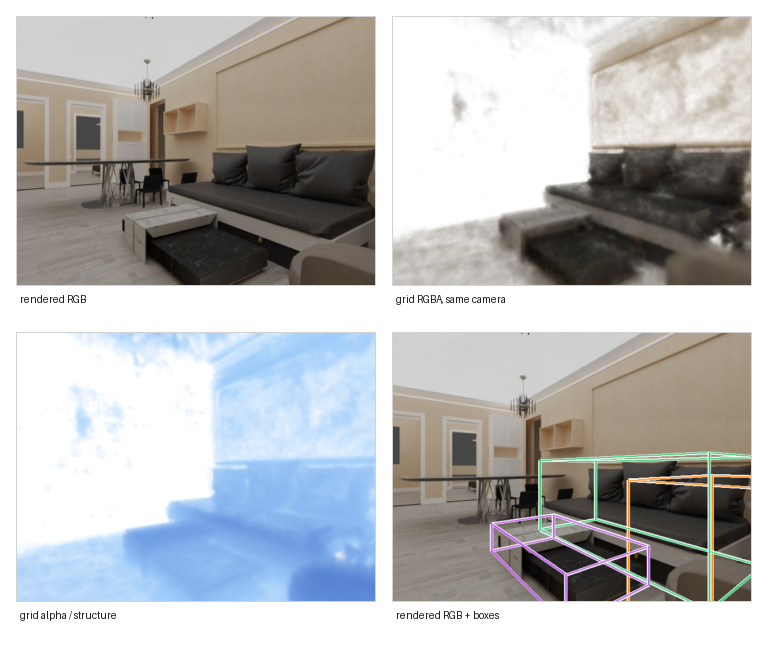
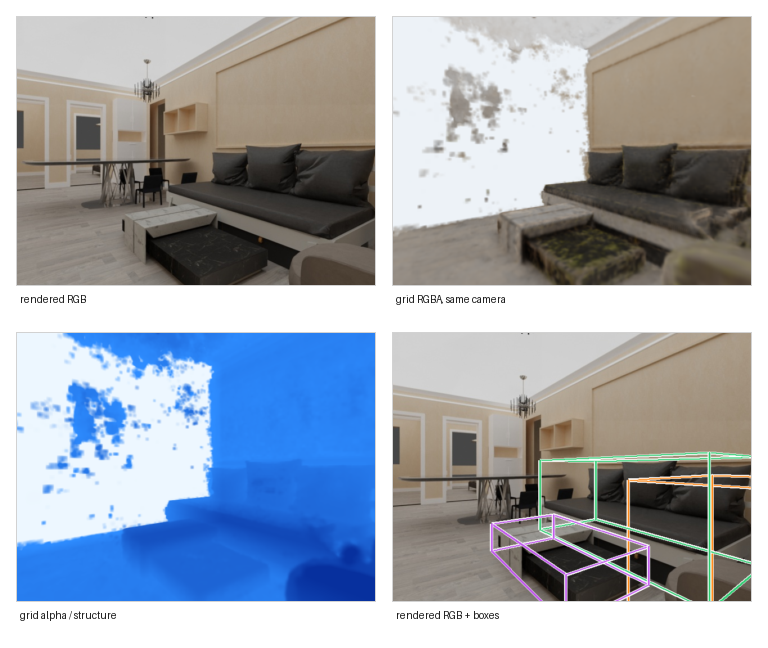
Refine Fig1 camera-aligned volume assets

diff --git a/figures_src/render_camera_aligned_grid_views.py b/figures_src/render_camera_aligned_grid_views.py
@@ -73,7 +73,9 @@ def world_to_grid(world_points: torch.Tensor, meta: dict[str, np.ndarray | float
     bbox_max = torch.as_tensor(meta["bbox_max"], dtype=world_points.dtype, device=world_points.device)
     scale = torch.as_tensor(float(meta["scale"]), dtype=world_points.dtype, device=world_points.device)
     offset = torch.as_tensor(meta["offset"], dtype=world_points.dtype, device=world_points.device)
-    # world = ([pos_x, pos_y, pos_z] - [offset_y, offset_z, offset_x]) / scale
+    # Inverse of the point-position part of proposals2ngp.py's non-mitsuba
+    # path. The y/z sign flip there applies to orientation columns, not to
+    # the translation column used for point locations.
     off = torch.stack([offset[1], offset[2], offset[0]])
     pos = world_points * scale + off
     diag = bbox_max - bbox_min
@@ -162,7 +164,14 @@ def render_camera_aligned(
         opacity = weights.sum(dim=1).clamp(0.0, 1.0)
         color = (weights[..., None] * sampled[..., :3].clamp(0.0, 1.0)).sum(dim=1)
         depth = (weights * ts_base[None, :]).sum(dim=1) / opacity.clamp_min(1e-6)
-        rgb = color + (1.0 - opacity[:, None])
+        surface_rgb = color / opacity[:, None].clamp_min(1e-4)
+        # Figure-facing grid view: the extracted radiance-density grid is much
+        # sparser than the original NGP render. Compositing directly over white
+        # makes far/low-density structure disappear, so use an opacity matte
+        # over a very light cool background while preserving sampled RGB.
+        matte = (opacity * 1.75).clamp(0.0, 1.0).pow(0.55)
+        bg = torch.tensor([0.93, 0.95, 0.97], dtype=torch.float32)
+        rgb = surface_rgb.clamp(0.0, 1.0) * matte[:, None] + bg[None, :] * (1.0 - matte[:, None])
         rgb_out[y0:y1] = rgb.reshape(y1 - y0, width, 3)
         opacity_out[y0:y1] = opacity.reshape(y1 - y0, width)
         depth_out[y0:y1] = depth.reshape(y1 - y0, width)
@@ -175,14 +184,20 @@ def save_rgb(path: Path, arr: np.ndarray) -> None:
 
 
 def save_alpha(path: Path, opacity: np.ndarray, depth: np.ndarray) -> None:
-    # Figure-friendly blue structure view with depth shading. Near opaque
-    # surfaces become saturated blue; farther surfaces fade to pale blue.
-    alpha_strength = 0.92 * (np.clip(opacity, 0.0, 1.0) ** 0.58)
+    # Figure-friendly blue structure view with depth shading. Keep far surfaces
+    # blue instead of fading them to white; otherwise the room depth disappears
+    # in the camera-aligned view.
+    alpha_strength = np.clip(1.65 * (np.clip(opacity, 0.0, 1.0) ** 0.46), 0.0, 1.0)
     depth = np.clip(depth, 0.0, 1.0)
-    near = np.array([0.04, 0.22, 0.68], dtype=np.float32)
-    far = np.array([0.62, 0.82, 1.00], dtype=np.float32)
+    valid = opacity > 0.015
+    if np.any(valid):
+        lo, hi = np.percentile(depth[valid], [2, 98])
+        depth = np.clip((depth - lo) / max(hi - lo, 1e-6), 0.0, 1.0)
+    near = np.array([0.03, 0.19, 0.62], dtype=np.float32)
+    far = np.array([0.18, 0.55, 1.00], dtype=np.float32)
     structure_color = near[None, None, :] * (1.0 - depth[..., None]) + far[None, None, :] * depth[..., None]
-    img = (1.0 - alpha_strength[..., None]) + alpha_strength[..., None] * structure_color
+    bg = np.array([0.93, 0.97, 1.00], dtype=np.float32)
+    img = bg[None, None, :] * (1.0 - alpha_strength[..., None]) + alpha_strength[..., None] * structure_color
     save_rgb(path, img)
 
 
@@ -208,6 +223,60 @@ def make_quad(render_rgb_path: Path, grid_rgba_path: Path, alpha_path: Path, bbo
     sheet.save(out_path)
 
 
+def save_crop_set(
+    render_rgb_path: Path,
+    grid_rgba_path: Path,
+    alpha_path: Path,
+    bbox_path: Path,
+    scene: str,
+    frame: str,
+    crop: tuple[int, int, int, int],
+    out: Path,
+) -> None:
+    """Save a paper-facing crop that keeps the render/grid panels aligned."""
+    source_paths = {
+        "render_rgb": render_rgb_path,
+        "grid_rgba": grid_rgba_path,
+        "grid_alpha": alpha_path,
+        "bbox": bbox_path,
+    }
+    cropped = {}
+    for key, path in source_paths.items():
+        crop_path = out / f"fig1_{scene}_{frame}_{key}_crop_sofa_wall.png"
+        Image.open(path).convert("RGB").crop(crop).save(crop_path)
+        cropped[key] = crop_path
+
+    thumb_w, thumb_h = 260, 320
+    margin, label_h = 16, 30
+    labels = [
+        ("render_rgb", "rendered RGB crop"),
+        ("grid_rgba", "grid RGBA crop"),
+        ("grid_alpha", "grid alpha / structure crop"),
+        ("bbox", "rendered RGB + boxes crop"),
+    ]
+    sheet = Image.new("RGB", (thumb_w * 2 + margin * 3, (thumb_h + label_h) * 2 + margin * 3), "white")
+    draw = ImageDraw.Draw(sheet)
+    for i, (key, label) in enumerate(labels):
+        img = Image.open(cropped[key]).convert("RGB")
+        img = ImageOps.contain(img, (thumb_w, thumb_h), Image.BILINEAR)
+        row, col = divmod(i, 2)
+        x = margin + col * (thumb_w + margin)
+        y = margin + row * (thumb_h + label_h + margin)
+        bg = Image.new("RGB", (thumb_w, thumb_h), (248, 248, 248))
+        bg.paste(img, ((thumb_w - img.width) // 2, (thumb_h - img.height) // 2))
+        sheet.paste(bg, (x, y))
+        draw.rectangle([x, y, x + thumb_w - 1, y + thumb_h - 1], outline=(210, 210, 210), width=1)
+        draw.text((x + 4, y + thumb_h + 7), label, fill=(25, 25, 25))
+    sheet.save(out / f"fig1_{scene}_{frame}_render_rgb_grid_rgba_alpha_bbox_quad_crop_sofa_wall.png")
+
+
+def parse_crop(raw: str) -> tuple[int, int, int, int]:
+    vals = [int(v.strip()) for v in raw.split(",")]
+    if len(vals) != 4:
+        raise ValueError("--crop must be formatted as left,top,right,bottom")
+    return vals[0], vals[1], vals[2], vals[3]
+
+
 def main() -> None:
     parser = argparse.ArgumentParser()
     parser.add_argument("--scene", default="3dfront_0131_00")
@@ -224,6 +293,11 @@ def main() -> None:
     parser.add_argument("--tile-rows", type=int, default=24)
     parser.add_argument("--opacity-scale", type=float, default=0.45)
     parser.add_argument("--alpha-threshold", type=float, default=0.015)
+    parser.add_argument(
+        "--crop",
+        default="370,25,640,385",
+        help="Aligned crop for paper-facing panels, formatted left,top,right,bottom. Empty string disables crops.",
+    )
     args = parser.parse_args()
 
     scene_root = Path(args.render_root) / args.scene
@@ -263,6 +337,17 @@ def main() -> None:
             bbox_path,
             out / f"fig1_{args.scene}_{args.frame}_render_rgb_grid_rgba_alpha_bbox_quad.png",
         )
+        if args.crop:
+            save_crop_set(
+                render_rgb_path=render_rgb_path,
+                grid_rgba_path=rgba_path,
+                alpha_path=alpha_path,
+                bbox_path=bbox_path,
+                scene=args.scene,
+                frame=args.frame,
+                crop=parse_crop(args.crop),
+                out=out,
+            )
     print(f"wrote {rgba_path}")
     print(f"wrote {alpha_path}")
 

diff --git a/figures_src/fig1_render_view_assets/README.md b/figures_src/fig1_render_view_assets/README.md
@@ -43,6 +43,11 @@ final/fig1_3dfront_0131_00_0180_grid_alpha_same_camera.png  # blue, depth-shaded
 final/fig1_3dfront_0131_00_0180_render_rgb_bbox_furniture.png
 final/fig1_3dfront_0131_00_0180_render_rgb_and_bbox_furniture_pair.png
 final/fig1_3dfront_0131_00_0180_render_rgb_grid_rgba_alpha_bbox_quad.png
+final/fig1_3dfront_0131_00_0180_render_rgb_crop_sofa_wall.png
+final/fig1_3dfront_0131_00_0180_grid_rgba_crop_sofa_wall.png
+final/fig1_3dfront_0131_00_0180_grid_alpha_crop_sofa_wall.png
+final/fig1_3dfront_0131_00_0180_bbox_crop_sofa_wall.png
+final/fig1_3dfront_0131_00_0180_render_rgb_grid_rgba_alpha_bbox_quad_crop_sofa_wall.png
 ```
 
 Backup assets:
@@ -96,9 +101,10 @@ camera as the selected rendered RGB view:
 python figures_src/render_camera_aligned_grid_views.py \
   --scene 3dfront_0131_00 \
   --frame 0180 \
-  --samples 192 \
-  --opacity-scale 0.18 \
-  --alpha-threshold 0.012
+  --samples 256 \
+  --opacity-scale 1.15 \
+  --alpha-threshold 0.0 \
+  --crop 370,25,640,385
 ```
 
 ## Notes
@@ -114,6 +120,11 @@ python figures_src/render_camera_aligned_grid_views.py \
   strongly structure appears, while expected ray depth changes the blue tone.
   This avoids reading voxel/grid texture as the main signal and makes the
   structure-first concept clearer.
+- The paper-facing Fig. 1 asset should use the `crop_sofa_wall` outputs. The
+  full camera view is kept for auditability, but the extracted grid contains
+  low-density artifacts on the left wall of this frame. Cropping to the sofa and
+  back-wall region follows the NeRF-MAE teaser/Fig. 5 style: show a clean
+  interpretable part of the actual scene rather than the whole room.
 - For predicted proposal visualization exactly like NeRF-RPN, use `nerf_rpn/scripts/proposals2ngp.py` to inject proposal boxes into `transforms.json`, then render through the instant-ngp fork referenced in the NeRF-MAE README. That is heavier and not needed for the Fig. 1 conceptual render.
 - Candidate sheets are under `candidates/`; raw grid render assets remain under
   `debug/grid_volume_views/` for debugging and structure/alpha illustrations
